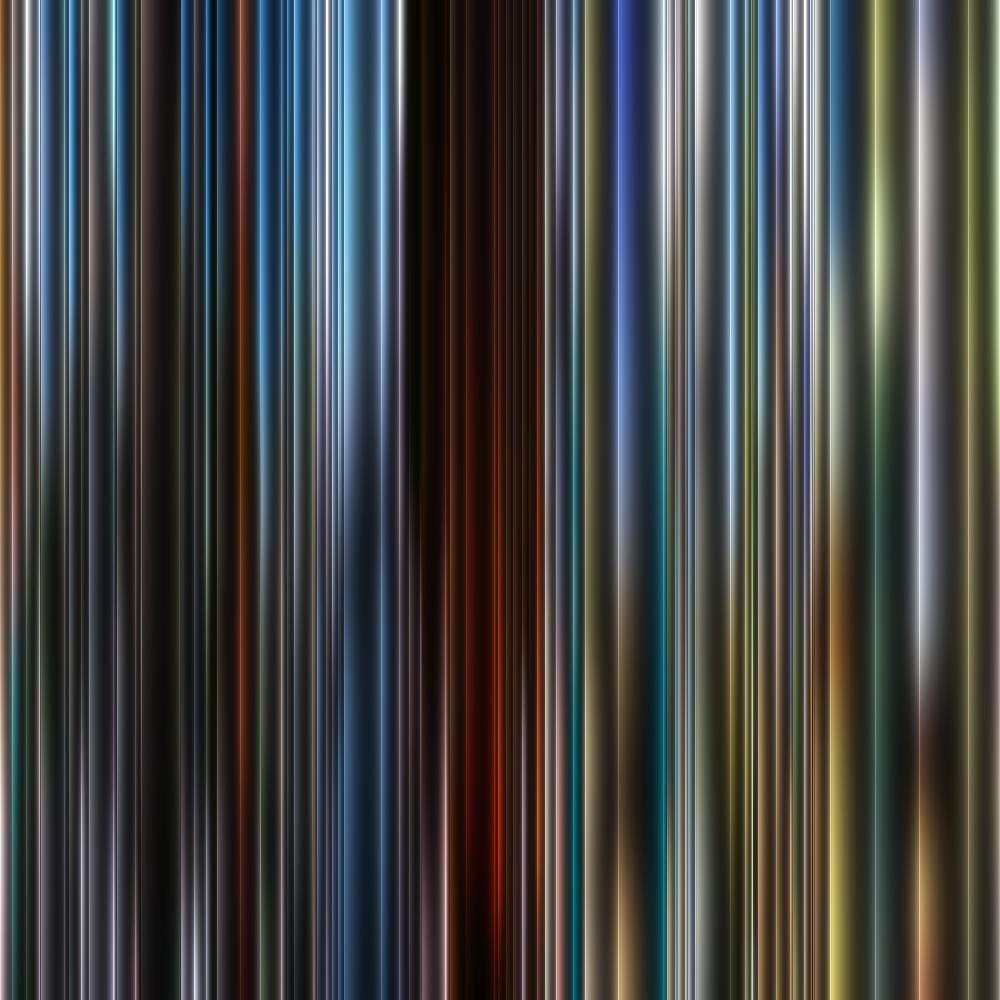
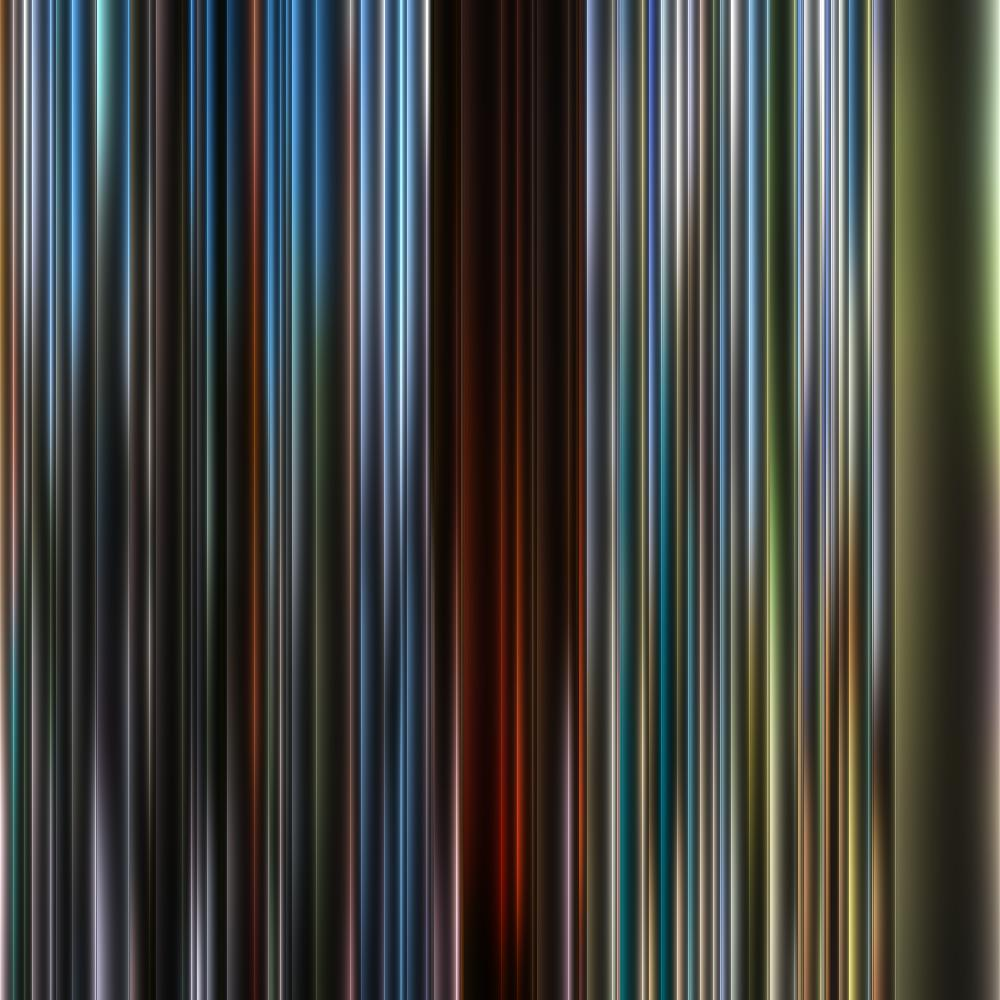
Update

diff --git a/main.py b/main.py
@@ -92,26 +92,29 @@ def draw(_strips, _timestamps):
         raise ValueError('Not enough images')
     if len(_strips) != len(_timestamps):
         raise ValueError('Images and timestamp list lengths do not match')
-    # Draw gradient
+    # draw gradient
     _canvas = np.full((CANVAS_WIDTH, CANVAS_HEIGHT, 3), 0, dtype=float)
     _canvas = _insert_gradient(_canvas, _strips, _timestamps)
-    # Draw glowing strips
+    # draw glowing strips
     _layer = np.full((CANVAS_WIDTH, CANVAS_HEIGHT, 3), 0, dtype=float)
     _insert_strips(_layer, _strips, _timestamps)
     _layer = filters.gaussian(_layer, 10, channel_axis=2)
     _insert_strips(_layer, _strips, _timestamps)
     _layer = filters.gaussian(_layer, 3, channel_axis=2)
     _insert_strips(_layer, _strips, _timestamps)
-    # Blend (screen mode)
+    # blend (screen mode)
     _canvas = 1 - (1-_canvas) * (1-_layer)
-    # Post-processing
+    # post-processing
     _canvas = _post_process(_canvas)
+    # swap rows and columns
+    _canvas = np.transpose(_canvas, (1, 0, 2))
+    # Convert from float[-1.,1.] to uint8[0,255]
+    _canvas = img_as_ubyte(_canvas)
     return _canvas
 
 
 def render(im):
-    im = np.transpose(im, (1, 0, 2))
-    io.imsave('./out.jpg', img_as_ubyte(im))
+    io.imsave('./out.jpg', im)
 
 
 if __name__ == '__main__':

diff --git a/app.py b/app.py
@@ -1,17 +1,24 @@
 from flask import Flask, send_file
 from main import dataset, get_strips, draw, render
-import os
+import imageio.v3 as iio
+import io
 
 app = Flask(__name__)
 
 
 @app.route("/")
-def hello_world():
+def serve_image():
     images, timestamps = dataset()
     strips = get_strips(images)
     canvas = draw(strips, timestamps)
-    render(canvas)
+    # render(canvas)
 
-    # return "<p>Hello, World!</p>"
-    image = os.path.join('./out.jpg')
-    return send_file(image, mimetype='image/jpg')
+    output = io.BytesIO()
+    iio.imwrite(output, canvas, format_hint=".jpg")
+    # return output
+    return send_file(output, mimetype='image/jpeg')
+
+
+# if __name__ == '__main__':
+#     # print('Test')
+#     image = serve_image()
